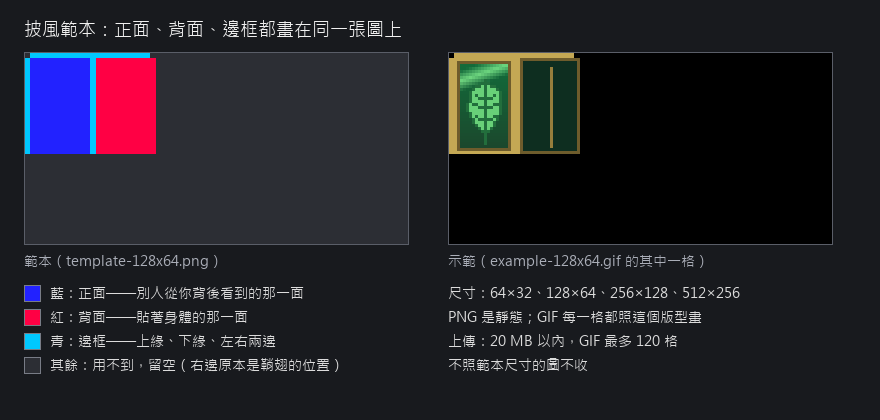
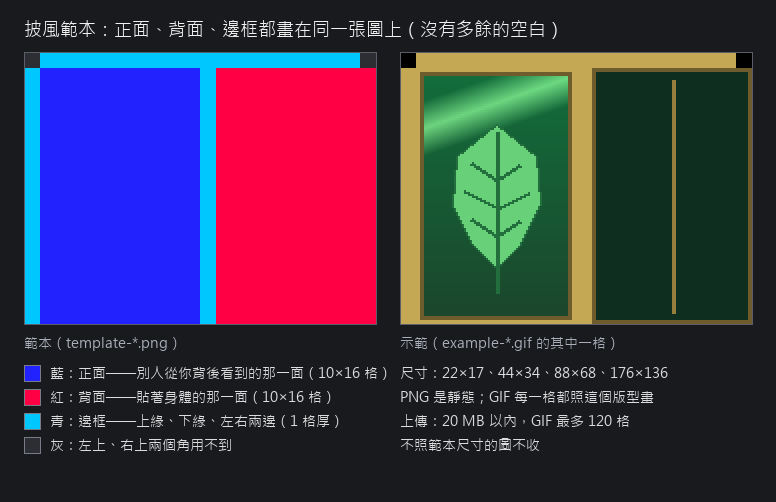
披風範本裁掉用不到的空白：22×17 格的倍數
使用者 2026-10-12：「既然其他用不到，那可以把空白處移除嗎？這樣反而會壓縮到使用者的空間。」
範本只留正面、背面、邊框那一塊；模組把它放回完整披風貼圖的左上角。上傳只收這個版型。

diff --git a/tools/presence/worker.js b/tools/presence/worker.js
@@ -55,10 +55,11 @@ export const MAX_CAPE_FRAMES = 120;
 const UPLOAD_EVERY_MS = 20 * 1000;
 
 /**
- * 收哪幾種尺寸——就是 capes/templates 的範本：64×32 的 1、2、4、8 倍。
+ * 收哪幾種尺寸——就是 capes/templates 的範本：22×17 格的 1、2、4、8 倍
+ * （左邊 1 ＋ 正面 10 ＋ 右邊 1 ＋ 背面 10 寬，上下緣 1 ＋ 面 16 高）。
  * 不照範本畫的圖不收，免得什麼圖都往上傳。
  */
-export const CAPE_SIZES = [[64, 32], [128, 64], [256, 128], [512, 256]];
+export const CAPE_SIZES = [[22, 17], [44, 34], [88, 68], [176, 136]];
 
 const CREDITS_URL = 'https://raw.githubusercontent.com/LyuChaCha/WynnChaYuan/main/'
   + 'src/main/resources/assets/wynnchayuan/credits.json';

diff --git a/src/test/java/com/wynnchayuan/cape/CapeImageTest.java b/src/test/java/com/wynnchayuan/cape/CapeImageTest.java
@@ -36,6 +36,7 @@ public final class CapeImageTest {
         gif();
         broken();
         face();
+        template();
         fullAndStrip();
         budget();
         credits();
@@ -193,6 +194,55 @@ public final class CapeImageTest {
                 Math.abs(((corner >> 16) & 0xFF) - 0x7F) <= 1);
         check("半透明的像素壓在黑底上變不透明",
                 CapeImage.opaque(0x80FF0000) == 0xFF800000 && CapeImage.opaque(0) == 0xFF000000);
+    }
+
+    /** 我們的範本：裁掉空白的版型，內容原封不動放回完整貼圖的左上角。 */
+    private static void template() throws Exception {
+        check("22×17 與它的倍數是範本", CapeImage.template(22, 17) && CapeImage.template(44, 34)
+                && CapeImage.template(176, 136));
+        check("別的尺寸不是（64×32、20×32、23×17、44×17）", !CapeImage.template(64, 32)
+                && !CapeImage.template(20, 32) && !CapeImage.template(23, 17)
+                && !CapeImage.template(44, 17));
+        int k = 2;
+        int w = 22 * k;
+        int h = 17 * k;
+        int[] source = new int[w * h];
+        for (int i = 0; i < source.length; i++) {
+            source[i] = 0xFF000000 | (i * 37 & 0xFFFFFF);
+        }
+        CapeImage.Frame out = CapeImage.layout(source, w, h, 1, 55);
+        check("★ 貼圖是完整的 64k×32k（實際 " + out.width() + "×" + out.height() + "）",
+                out.width() == 64 * k && out.height() == 32 * k && out.delayMs() == 55);
+        boolean same = true;
+        boolean blank = true;
+        for (int y = 0; y < out.height(); y++) {
+            for (int x = 0; x < out.width(); x++) {
+                int p = out.argb()[y * out.width() + x];
+                boolean corner = y < k && (x < k || x >= 21 * k);
+                if (x < w && y < h && !corner) {
+                    same &= p == source[y * w + x];
+                } else {
+                    blank &= p == 0;
+                }
+            }
+        }
+        check("★ 範本的內容原封不動在左上角：正面、背面、邊框的位置跟完整版型一樣", same);
+        check("★ 範本以外的地方（原本的空白）是空的", blank);
+        // 正面在 (1k,1k)、背面在 (12k,1k)：跟只畫一面時補出來的位置是同一個
+        check("正面與背面落在披風模型讀的位置",
+                out.argb()[k * out.width() + k] == source[k * w + k]
+                        && out.argb()[k * out.width() + 12 * k] == source[k * w + 12 * k]);
+        int[] big = new int[176 * 136];
+        java.util.Arrays.fill(big, 0xFF336699);
+        CapeImage.Frame shrunk = CapeImage.fromTemplate(big, 176, 136, 100, 0);
+        check("★ 格數多的大範本自動縮小（實際 " + shrunk.width() + "×" + shrunk.height() + "）",
+                100L * shrunk.width() * shrunk.height() <= CapeImage.PIXEL_BUDGET
+                        && shrunk.argb()[(shrunk.width() / 64) * shrunk.width() + shrunk.width() / 64]
+                                == 0xFF336699);
+        Gif.Image gif = Gif.decode(file("template.gif"), 9);
+        check("範本尺寸的 GIF：22×17、三格，每一格都排得進去", gif.width() == 22 && gif.height() == 17
+                && gif.frames().size() == 3 && CapeImage.layout(gif.frames().get(1).argb(),
+                        22, 17, 3, 100).width() == 64);
     }
 
     private static void fullAndStrip() {

diff --git a/src/main/java/com/wynnchayuan/cape/CapeImage.java b/src/main/java/com/wynnchayuan/cape/CapeImage.java
@@ -12,6 +12,8 @@ import java.util.List;
  * <ul>
  *   <li><b>只有一面</b>（任何尺寸、任何比例）：當成披風<b>背後看到的那一面</b>，
  *       裁成 10:16 縮到合適的大小，內側與四邊由這裡補；</li>
+ *   <li><b>範本</b>（22×17 格的倍數）：我們自己的版型——正面、背面、邊框都在圖上，
+ *       用不到的空白裁掉了。上傳只收這一種；</li>
  *   <li><b>完整版型</b>（寬是高的兩倍、寬是 64 的倍數）：Minecraft 自己的披風貼圖，照用；</li>
  *   <li><b>直排的多格 PNG</b>（Wynntils 的動畫披風）：每一格是一張完整版型，從上往下排，
  *       拆開當動畫——已經做好的檔不必重做。</li>
@@ -58,6 +60,44 @@ public final class CapeImage {
 
     /** @param argb 一列接一列，沒用到的地方是 0 */
     public record Frame(int width, int height, int[] argb, int delayMs) {}
+
+    /**
+     * 範本的大小，以格為單位：披風貼圖左上角用得到的那一塊。
+     * 寬 22 ＝ 左邊 1 ＋ 正面 10 ＋ 右邊 1 ＋ 背面 10；高 17 ＝ 上下緣 1 ＋ 面 16。
+     */
+    public static final int TEMPLATE_W = 22;
+    public static final int TEMPLATE_H = 17;
+
+    /** 寬高是不是我們的範本（22×17 的整數倍）。 */
+    public static boolean template(int width, int height) {
+        return width >= TEMPLATE_W && width % TEMPLATE_W == 0
+                && (long) height * TEMPLATE_W == (long) width * TEMPLATE_H;
+    }
+
+    /**
+     * 範本 → 完整的披風貼圖：內容原封不動放在左上角，右邊與下面補空白。
+     *
+     * @param frames 這件披風總共幾格（算預算用）
+     */
+    public static Frame fromTemplate(int[] source, int sw, int sh, int frames, int delayMs) {
+        int k = sw / TEMPLATE_W;
+        int limit = (int) Math.floor(Math.sqrt(
+                PIXEL_BUDGET / (64.0 * 32.0 * Math.max(1, frames))));
+        int target = Math.max(1, Math.min(k, Math.min(MAX_SCALE, limit)));
+        int tw = TEMPLATE_W * target;
+        int th = TEMPLATE_H * target;
+        int[] used = target == k ? source : resample(source, sw, 0, 0, sw, sh, tw, th);
+        int width = 64 * target;
+        int[] out = new int[width * 32 * target];
+        for (int y = 0; y < th; y++) {
+            for (int x = 0; x < tw; x++) {
+                // 版型左上與右上各有一小塊不屬於任何一面（邊框的轉角），留空
+                boolean corner = y < target && (x < target || x >= 21 * target);
+                out[y * width + x] = corner ? 0 : opaque(used[y * tw + x]);
+            }
+        }
+        return new Frame(width, 32 * target, out, delayMs);
+    }
 
     /** 寬高是不是一張完整的披風版型。 */
     public static boolean fullLayout(int width, int height) {
@@ -170,6 +210,9 @@ public final class CapeImage {
      * @param frames 這件披風總共幾格
      */
     public static Frame layout(int[] source, int sw, int sh, int frames, int delayMs) {
+        if (template(sw, sh)) {
+            return fromTemplate(source, sw, sh, frames, delayMs);
+        }
         return fullLayout(sw, sh)
                 ? full(source, sw, sh, frames, delayMs)
                 : face(source, sw, sh, scaleFor(sh, frames), delayMs);

diff --git a/src/test/java/com/wynnchayuan/PresenceTest.java b/src/test/java/com/wynnchayuan/PresenceTest.java
@@ -95,11 +95,13 @@ public final class PresenceTest {
                         && Presence.resultOf(400, "{\"why\":\"???\"}") == Presence.Result.FAILED);
 
         // ---- 上傳之前先驗 ----
-        byte[] gif = Files.readAllBytes(Path.of("src/test/resources/cape/full.gif"));   // 64×32，三格
+        byte[] gif = Files.readAllBytes(Path.of("src/test/resources/cape/template.gif"));   // 22×17，三格
         check("照範本畫的 GIF 可以上傳", CapeRules.check(gif) == null);
         check("★ 只畫一面的圖不能上傳——要照範本", CapeRules.check(Files.readAllBytes(
                 Path.of("src/test/resources/cape/anim.gif"))) == CapeRules.Problem.BAD_SIZE
                 && CapeRules.check(png(40, 64)) == CapeRules.Problem.BAD_SIZE);
+        check("★ 沒裁掉空白的完整版型也不能上傳", CapeRules.check(png(64, 32)) == CapeRules.Problem.BAD_SIZE
+                && CapeRules.check(png(128, 64)) == CapeRules.Problem.BAD_SIZE);
         check("上限是 20 MB", CapeRules.MAX_BYTES == 20 * 1024 * 1024);
         check("★ 下載到一半的 GIF 不行", CapeRules.check(Arrays.copyOf(gif, gif.length - 40))
                 == CapeRules.Problem.BAD_FORMAT);
@@ -111,10 +113,10 @@ public final class PresenceTest {
                 CapeRules.SIZES.length == 4 && Arrays.stream(CapeRules.SIZES)
                 .allMatch(size -> CapeRules.check(png(size[0], size[1])) == null));
         check("★ PNG：別的尺寸不行", CapeRules.check(png(100, 100)) == CapeRules.Problem.BAD_SIZE
-                && CapeRules.check(png(192, 96)) == CapeRules.Problem.BAD_SIZE
-                && CapeRules.check(png(1024, 512)) == CapeRules.Problem.BAD_SIZE);
+                && CapeRules.check(png(66, 51)) == CapeRules.Problem.BAD_SIZE
+                && CapeRules.check(png(352, 272)) == CapeRules.Problem.BAD_SIZE);
         byte[] wide = gif.clone();
-        wide[6] = 65;                                   // 寬改成 65
+        wide[6] = 23;                                   // 寬改成 23
         check("GIF：別的尺寸不行", CapeRules.check(wide) == CapeRules.Problem.BAD_SIZE);
 
         System.out.println(failures == 0 ? "登記站：全部通過" : "登記站：" + failures + " 項失敗");

diff --git a/src/main/java/com/wynnchayuan/cape/CapeRules.java b/src/main/java/com/wynnchayuan/cape/CapeRules.java
@@ -8,8 +8,8 @@ package com.wynnchayuan.cape;
  * 不必等一趟來回。兩邊的數字要一起改。
  *
  * <p>只收照範本畫的圖（使用者 2026-10-12：「防止別人亂傳圖片……需要使用我們範本」）：
- * 尺寸要是 {@code capes/templates} 那幾種，也就是 64×32 的倍數的完整版型——正面、背面、
- * 邊框都在圖上。放在自己資料夾裡預覽的圖沒有這些限制，那是只有自己看得到的。
+ * 尺寸要是 {@code capes/templates} 那幾種，也就是 22×17 格的倍數——正面、背面、邊框都在
+ * 圖上，用不到的空白已經裁掉。放在自己資料夾裡預覽的圖沒有這些限制，那是只有自己看得到的。
  */
 public final class CapeRules {
 
@@ -21,8 +21,8 @@ public final class CapeRules {
     /** GIF 最多幾格。 */
     public static final int MAX_FRAMES = 120;
 
-    /** 收哪幾種尺寸：範本的 64×32 與它的 2、4、8 倍。 */
-    public static final int[][] SIZES = {{64, 32}, {128, 64}, {256, 128}, {512, 256}};
+    /** 收哪幾種尺寸：範本的 22×17 與它的 2、4、8 倍。見 {@link CapeImage#template}。 */
+    public static final int[][] SIZES = {{22, 17}, {44, 34}, {88, 68}, {176, 136}};
 
     /** 哪裡不對。 */
     public enum Problem { TOO_LARGE, BAD_FORMAT, BAD_SIZE, TOO_MANY_FRAMES }

diff --git a/capes/README.md b/capes/README.md
@@ -9,23 +9,25 @@ WynnChaYuan 的披風，裝了模組的人都看得到。有兩條路：
 
 ## 範本
 
-披風要照 `templates/` 裡的範本畫：正面、背面、邊框都在同一張圖上。
+披風要照 `templates/` 裡的範本畫：正面、背面、邊框都在同一張圖上，沒有多餘的空白。
 
 ![範本說明](templates/guide.png)
 
 | 範本 | 尺寸 | 示範 |
 |---|---|---|
-| `templates/template-64x32.png` | 64×32 | `example-64x32.gif` |
-| `templates/template-128x64.png` | 128×64 | `example-128x64.gif`、`example-128x64.png` |
-| `templates/template-256x128.png` | 256×128 | `example-256x128.gif` |
-| `templates/template-512x256.png` | 512×256 | `example-512x256.gif` |
+| `templates/template-22x17.png` | 22×17 | `example-22x17.gif` |
+| `templates/template-44x34.png` | 44×34 | `example-44x34.gif` |
+| `templates/template-88x68.png` | 88×68 | `example-88x68.gif`、`example-88x68.png` |
+| `templates/template-176x136.png` | 176×136 | `example-176x136.gif` |
 
-- **藍色＝正面**：別人從你背後看到的那一面。
-- **紅色＝背面**：貼著身體的那一面。
-- **青色＝邊框**：上緣、下緣、左右兩邊。
-- 其餘留空。右邊原本是鞘翅的位置，用不到。
+- **藍色＝正面**：別人從你背後看到的那一面（10×16 格）。
+- **紅色＝背面**：貼著身體的那一面（10×16 格）。
+- **青色＝邊框**：上緣、下緣、左右兩邊（1 格厚）。
+- 左上、右上兩個角用不到。
 
-四個尺寸是同一個版型放大 1、2、4、8 倍，越大越細緻。
+四個尺寸是同一個版型放大 1、2、4、8 倍（一格是 1、2、4、8 個像素），越大越細緻。
+
+這個版型就是 Minecraft 披風貼圖左上角用得到的那一塊，右邊鞘翅與下面的空白裁掉了。
 
 ### PNG 與 GIF
 
@@ -45,7 +47,7 @@ WynnChaYuan 的披風，裝了模組的人都看得到。有兩條路：
 
 ## 登記在名單上的圖
 
-放在這個資料夾、由 `credits.json` 指到的圖是維護者自己放的，規則寬一點：除了範本的尺寸，也收只畫正面的圖（任何尺寸，當成正面、置中裁成 10:16，背面與邊框由模組補）與 Wynntils 那種直排多格的 PNG。檔名只能用小寫英數、`-`、`_`，副檔名 `.png` 或 `.gif`。
+放在這個資料夾、由 `credits.json` 指到的圖是維護者自己放的，規則寬一點：除了範本的尺寸，也收 Minecraft 的完整披風版型（64×32 的倍數）、Wynntils 那種直排多格的 PNG、以及只畫正面的圖（任何尺寸，置中裁成 10:16，背面與邊框由模組補）。檔名只能用小寫英數、`-`、`_`，副檔名 `.png` 或 `.gif`。
 
 ## 先在自己身上看效果
 

diff --git a/tools/presence/README.md b/tools/presence/README.md
@@ -40,7 +40,7 @@ Minecraft 多人伺服器自己那一套：模組向 Mojang 說「我要加入 <
 - `anyone`：驗過身分的人都可以。
 - `off`：不收。
 
-圖的規則跟模組的 `CapeRules` 同一套：只收照範本畫的（64×32、128×64、256×128、512×256），20 MB 以內，GIF 最多 120 格。見 `capes/README.md`。
+圖的規則跟模組的 `CapeRules` 同一套：只收照範本畫的（22×17、44×34、88×68、176×136），20 MB 以內，GIF 最多 120 格。見 `capes/README.md`。
 
 ## 拿掉不該出現的披風
 
